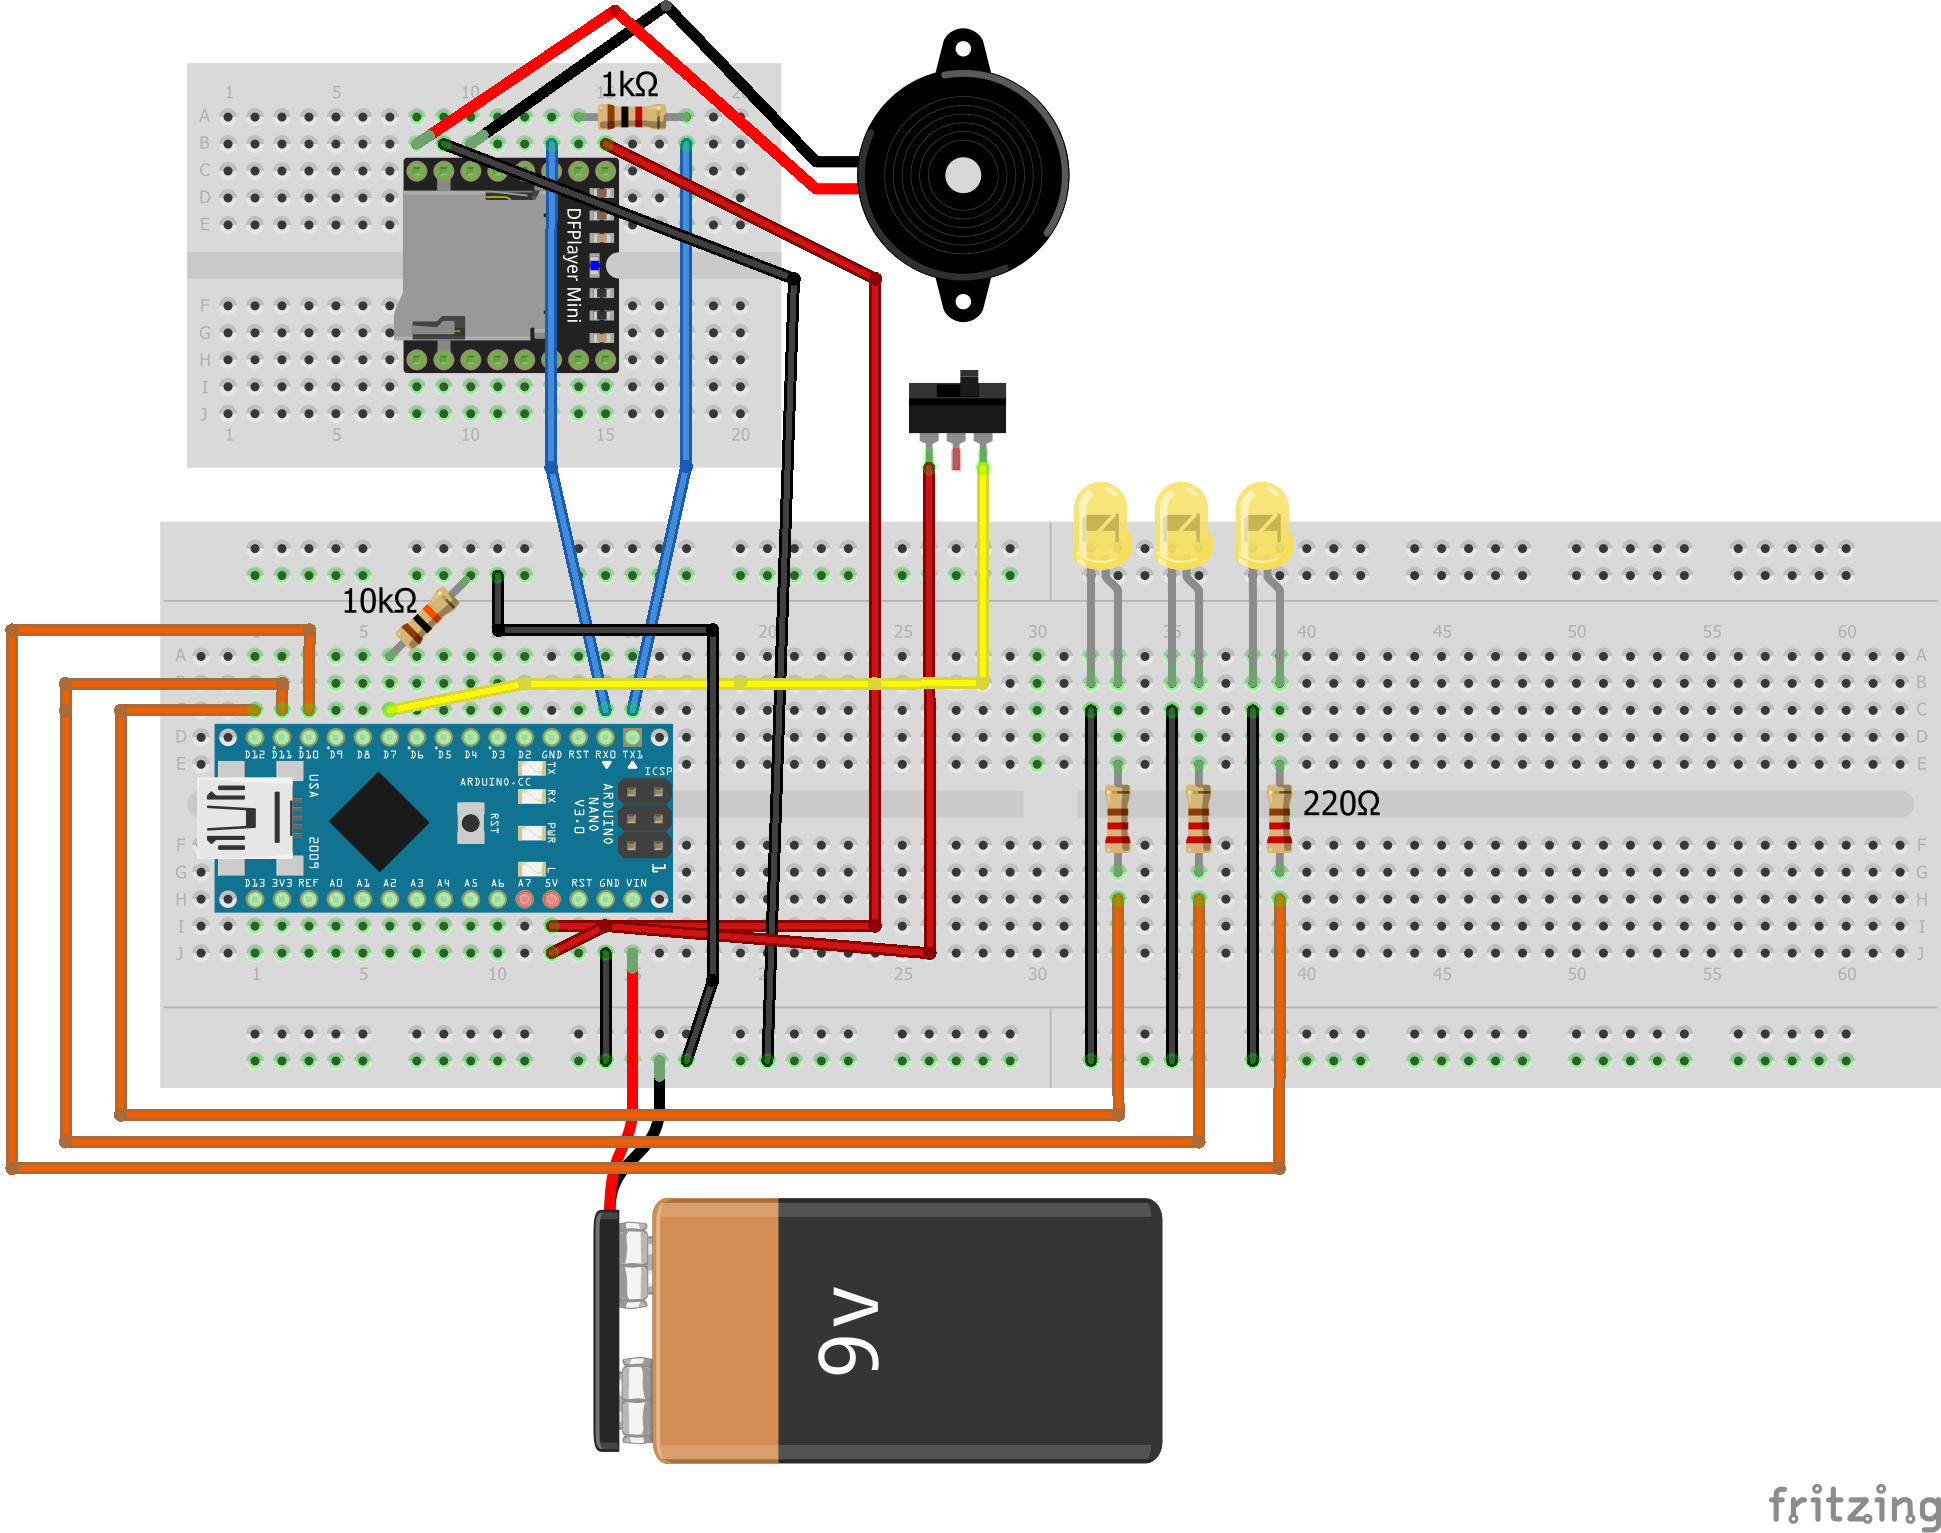
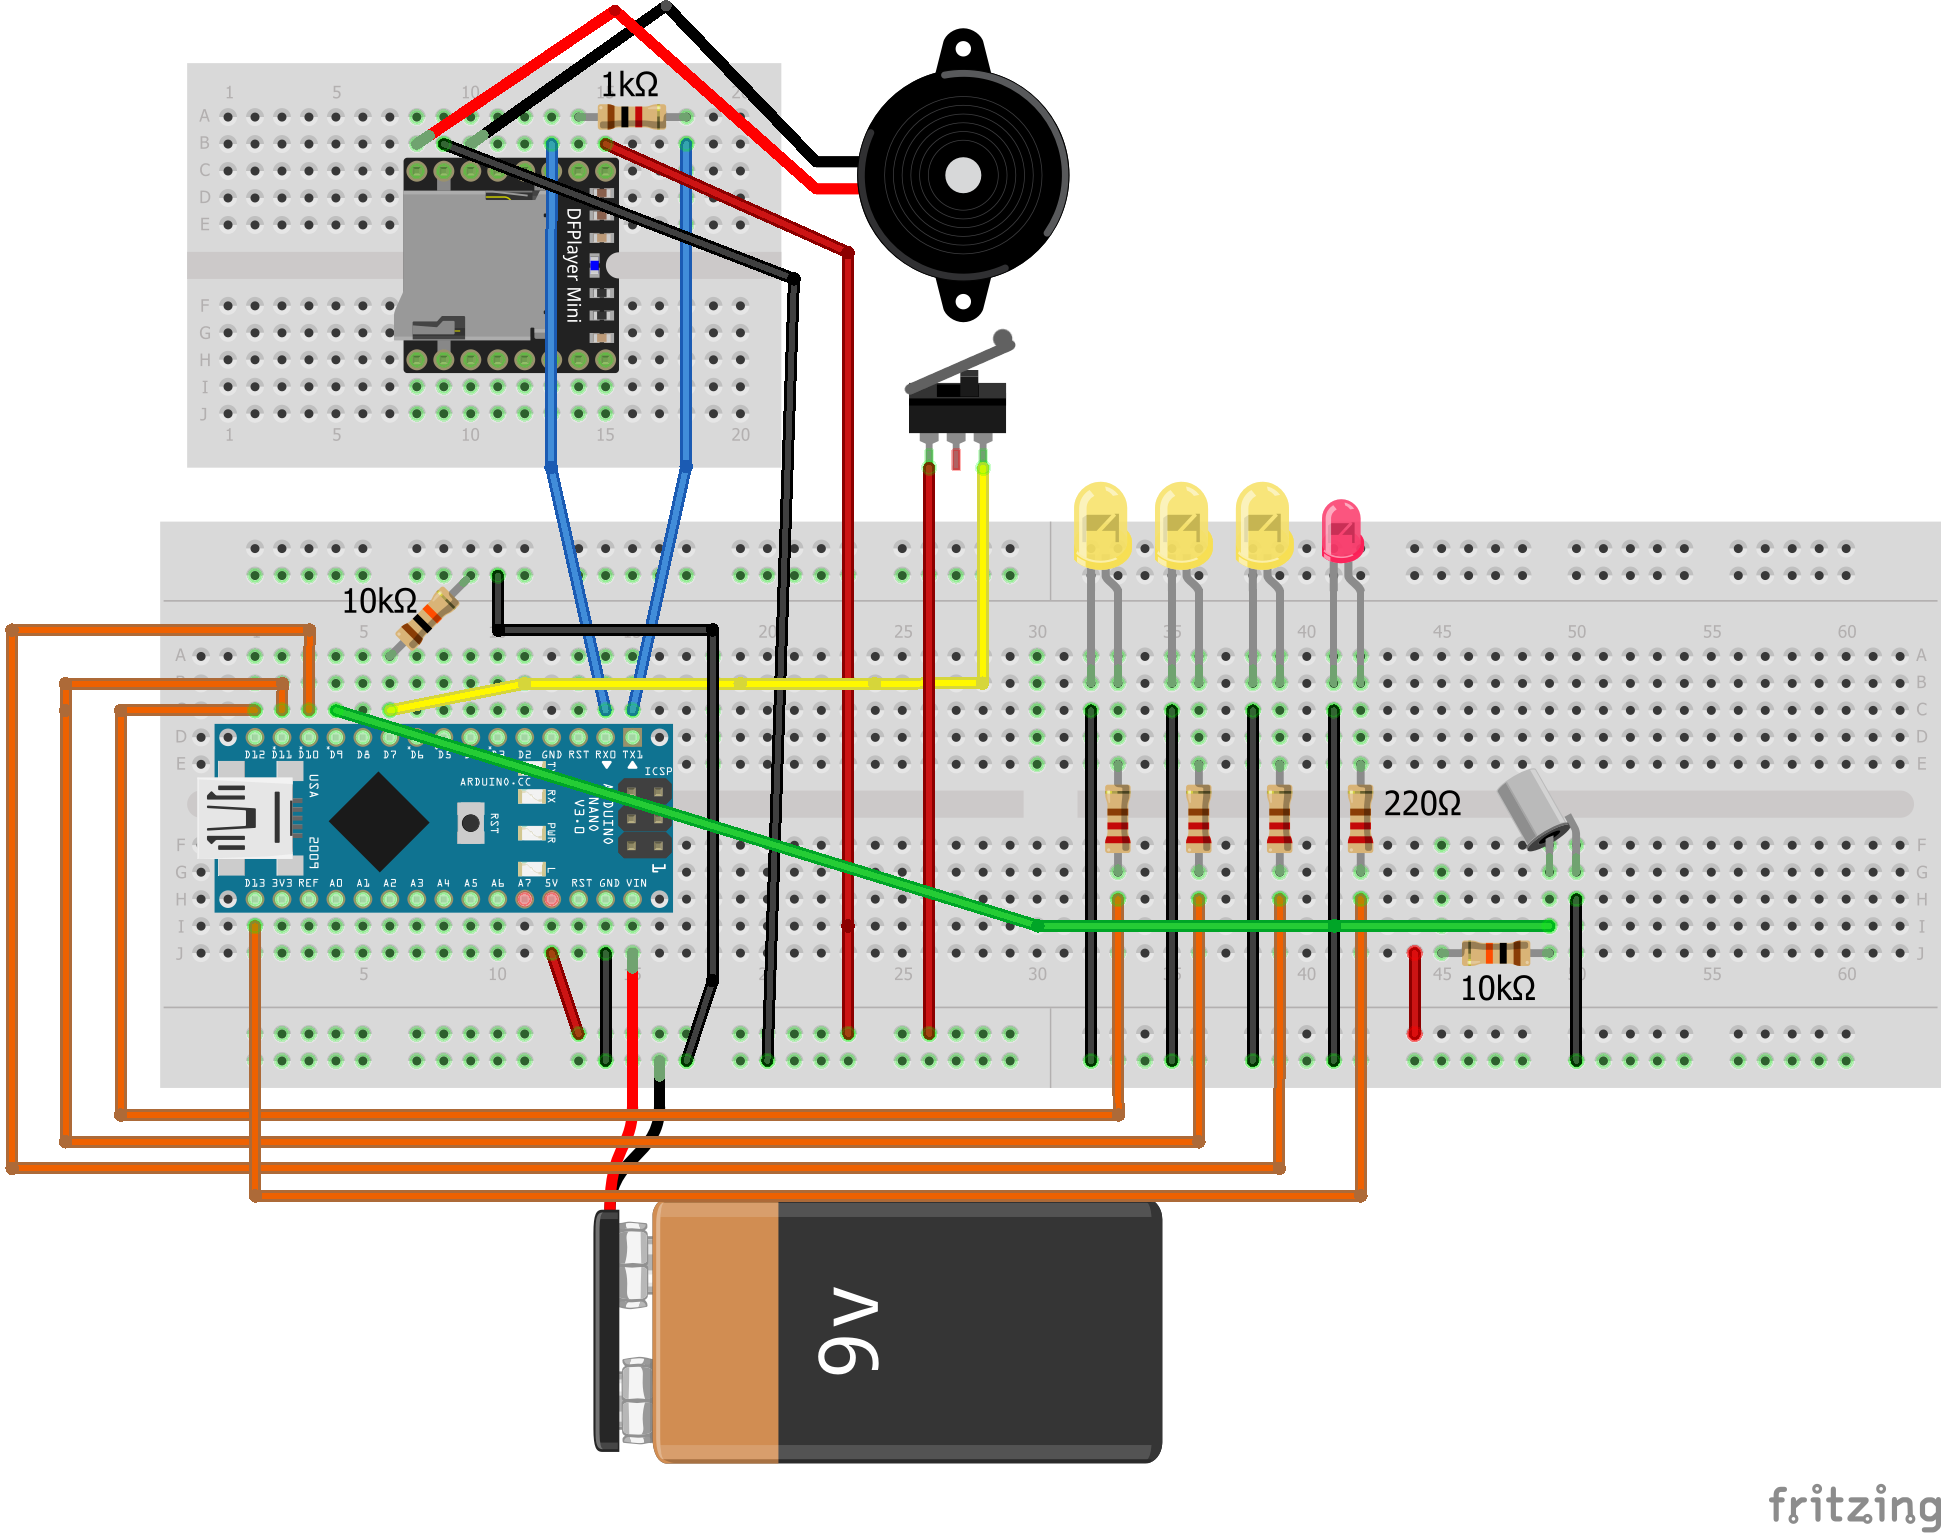
Add tilt switch and on led

diff --git a/warningLED.go b/warningLED.go
@@ -20,7 +20,6 @@ func (led *LED) blink(i int) {
 
 // RunningLED defines the sequence leds for the three front lights
 type RunningLED struct {
-	onLed    machine.Pin
 	ledOne   LED
 	ledTwo   LED
 	ledThree LED
@@ -31,45 +30,43 @@ type RunningLED struct {
 // NewRunningLED returns a warningLED
 func NewRunningLED() *RunningLED {
 
-	var w RunningLED
+	var r RunningLED
 
-	w.onLed = machine.Pin(13)
-	w.ledOne.l = machine.Pin(12)
-	w.ledTwo.l = machine.Pin(11)
-	w.ledThree.l = machine.Pin(10)
+	r.ledOne.l = machine.Pin(12)
+	r.ledTwo.l = machine.Pin(11)
+	r.ledThree.l = machine.Pin(10)
 
-	w.onLed.Configure(machine.PinConfig{Mode: machine.PinOutput})
-	w.ledOne.l.Configure(machine.PinConfig{Mode: machine.PinOutput})
-	w.ledTwo.l.Configure(machine.PinConfig{Mode: machine.PinOutput})
-	w.ledThree.l.Configure(machine.PinConfig{Mode: machine.PinOutput})
+	r.ledOne.l.Configure(machine.PinConfig{Mode: machine.PinOutput})
+	r.ledTwo.l.Configure(machine.PinConfig{Mode: machine.PinOutput})
+	r.ledThree.l.Configure(machine.PinConfig{Mode: machine.PinOutput})
 
-	w.ledOne.state = []bool{true, true, true, true, false, false, false, true, false}
-	w.ledTwo.state = []bool{true, false, true, false, true, true, false, true, false}
-	w.ledThree.state = []bool{true, false, false, true, true, false, true, false, false}
+	r.ledOne.state = []bool{true, true, true, true, false, false, false, true, false}
+	r.ledTwo.state = []bool{true, false, true, false, true, true, false, true, false}
+	r.ledThree.state = []bool{true, false, false, true, true, false, true, false, false}
 
-	w.currentState = 0
+	r.currentState = 0
 
-	return &w
+	return &r
 
 }
 
-func (w *RunningLED) blink(rollerSwitch machine.Pin) {
+// TurnOff will set all the LED to low
+func (r *RunningLED) TurnOff() {
+	r.ledOne.l.Low()
+	r.ledTwo.l.Low()
+	r.ledThree.l.Low()
+}
 
-	if !rollerSwitch.Get() {
-		w.onLed.Low()
-		w.ledOne.l.Low()
-		w.ledTwo.l.Low()
-		w.ledThree.l.Low()
-		return
-	}
+// Blink will change the state of the warning LED's
+func (r *RunningLED) Blink() {
 
-	w.ledOne.blink(w.currentState)
-	w.ledTwo.blink(w.currentState)
-	w.ledThree.blink(w.currentState)
+	r.ledOne.blink(r.currentState)
+	r.ledTwo.blink(r.currentState)
+	r.ledThree.blink(r.currentState)
 
-	w.currentState++
-	if w.currentState > 8 {
-		w.currentState = 0
+	r.currentState++
+	if r.currentState > 8 {
+		r.currentState = 0
 	}
 
 }

diff --git a/main.go b/main.go
@@ -7,6 +7,8 @@ import (
 
 // ThermalDetonator defines the components needed for the prop
 type ThermalDetonator struct {
+	onLED        machine.Pin
+	tiltSensor   machine.Pin
 	runningLED   *RunningLED
 	dfMiniPlayer *Dfminiplayer
 	rollerSwitch machine.Pin
@@ -16,6 +18,9 @@ type ThermalDetonator struct {
 // NewThermalDetonator setups the thermal detonator prop
 func NewThermalDetonator() *ThermalDetonator {
 	var thermDet ThermalDetonator
+
+	thermDet.tiltSensor = machine.Pin(9)
+	thermDet.tiltSensor.Configure(machine.PinConfig{Mode: machine.PinInput})
 
 	thermDet.runningLED = NewRunningLED()
 
@@ -27,26 +32,65 @@ func NewThermalDetonator() *ThermalDetonator {
 
 	thermDet.prevSwitch = thermDet.rollerSwitch.Get()
 
+	thermDet.onLED = machine.Pin(13)
+	thermDet.onLED.Configure(machine.PinConfig{Mode: machine.PinOutput})
+
 	return &thermDet
 }
 
+func (thermDet *ThermalDetonator) turnOffLights() {
+	thermDet.onLED.Low()
+	thermDet.runningLED.TurnOff()
+}
+
 func (thermDet *ThermalDetonator) loop() {
+
+	exploded := false
+	started := thermDet.rollerSwitch.Get()
+
 	for {
+
+		// Check if the rollerswitch has been pressed
 		if thermDet.prevSwitch != thermDet.rollerSwitch.Get() {
+
+			exploded = false
 
 			thermDet.dfMiniPlayer.Pause()
 			thermDet.dfMiniPlayer.Play(3)
 
 			thermDet.prevSwitch = thermDet.rollerSwitch.Get()
-		} else {
-			if thermDet.dfMiniPlayer.busy.Get() && thermDet.rollerSwitch.Get() {
-				thermDet.dfMiniPlayer.Play(2)
+
+			if thermDet.rollerSwitch.Get() {
+				started = true
+			} else {
+				thermDet.turnOffLights()
+				started = false
 			}
+		} else {
+
+			if !exploded && started && thermDet.rollerSwitch.Get() {
+				if thermDet.dfMiniPlayer.busy.Get() {
+					thermDet.dfMiniPlayer.Play(2)
+				}
+
+				if thermDet.tiltSensor.Get() {
+					thermDet.dfMiniPlayer.Pause()
+					thermDet.dfMiniPlayer.Play(1)
+					thermDet.turnOffLights()
+					exploded = true
+					thermDet.prevSwitch = thermDet.rollerSwitch.Get()
+					continue
+				}
+			}
+
 		}
 
-		thermDet.runningLED.blink(thermDet.rollerSwitch)
+		if !exploded && started && thermDet.rollerSwitch.Get() {
+			thermDet.onLED.High()
+			thermDet.runningLED.Blink()
+			time.Sleep(time.Second)
+		}
 
-		time.Sleep(time.Second)
 	}
 }
 
